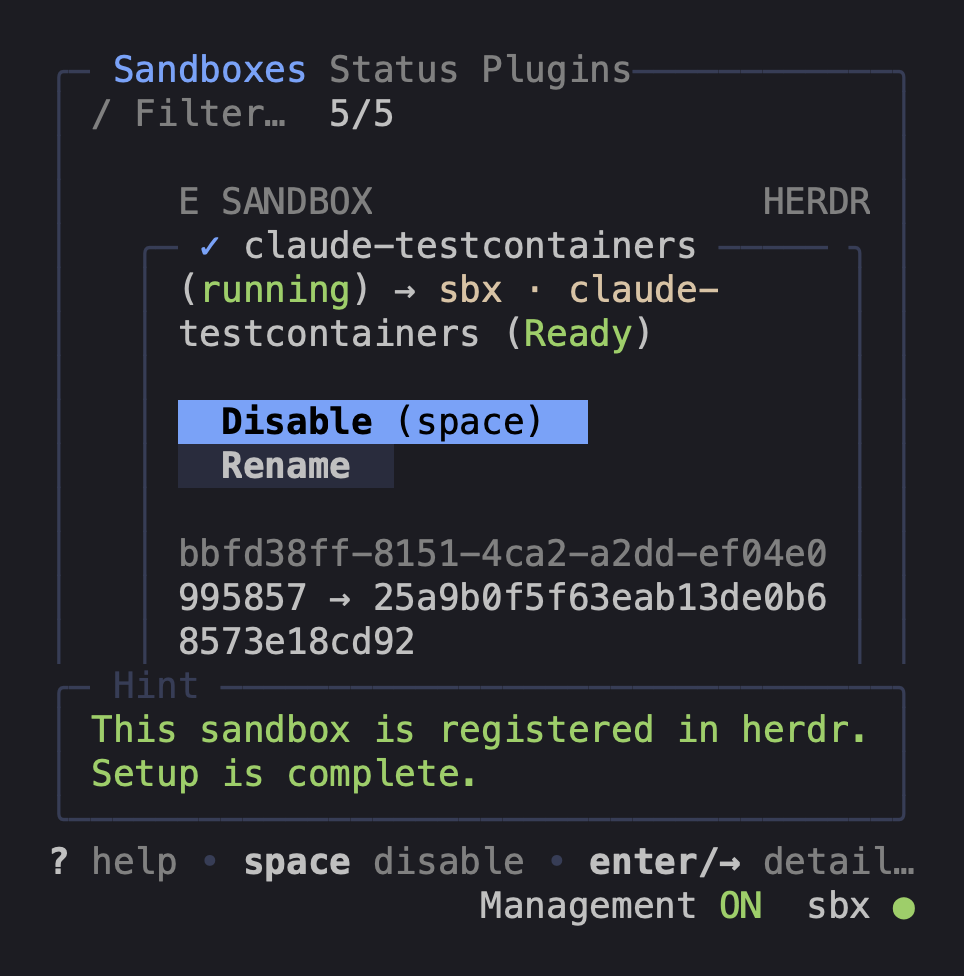
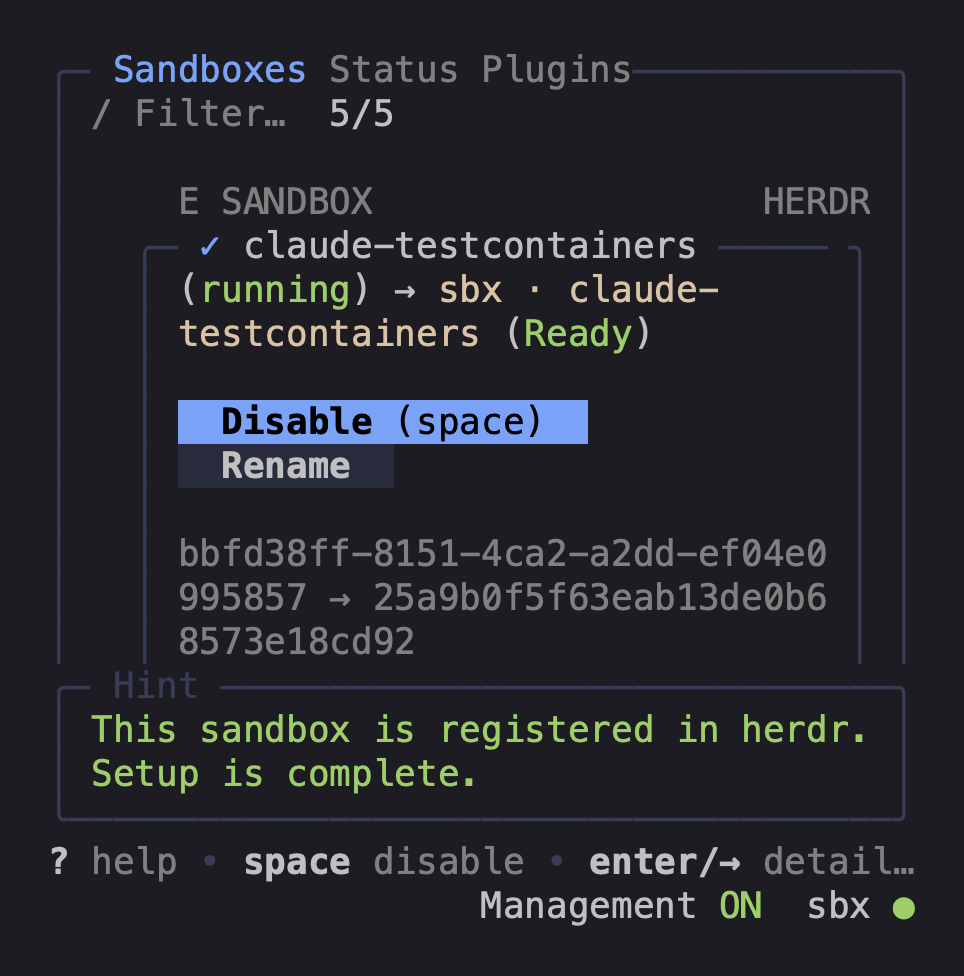
Preserve text styling across compact detail rows
Borders reset ANSI style between wrapped rows; Lip Gloss now restores each row.

Changed region(s): [[0.1867, 0.584, 0.8714, 0.6762], [0.2801, 0.3381, 0.4979, 0.3689], [0.1867, 0.3381, 0.249, 0.3689]]

diff --git a/internal/panel/details_render_test.go b/internal/panel/details_render_test.go
@@ -1,9 +1,12 @@
 package panel
 
 import (
+	"io"
+	"reflect"
 	"strings"
 	"testing"
 
+	"charm.land/lipgloss/v2"
 	"github.com/charmbracelet/x/ansi"
 	"github.com/lanwen/herdr-sbx/internal/guestplugins"
 	"github.com/lanwen/herdr-sbx/internal/store"
@@ -136,6 +139,40 @@ func TestDetailFocusMutesPrimaryAndShowsRenameSaveState(t *testing.T) {
 		}
 		if got := m.renderedInput(40); got != "New█ label" {
 			t.Fatalf("block cursor at wrong position: %q", got)
+		}
+	}
+}
+
+func TestCompactDetailsPreserveWrappedLabelAndIdentityStyles(t *testing.T) {
+	unsetNoColor(t)
+	m := modelFixture(t)
+	m.width = 40
+	row := m.rows[0]
+	row.Sandbox.ID = "bbfd38ff-8151-4ca2-a2dd-ef04e0995857"
+	row.ProfileID = "25a9b0f5f63eab13de0b68573e18cd92"
+	row.Label = "sbx · claude-testcontainers"
+	// Inspect the terminal pen at distinctive continuation fragments after the
+	// real card has inserted each row's borders and padding.
+	for fragment, want := range map[string]string{"testcontainers": colorSand, "5857": colorMuted, "cd92": colorMuted} {
+		found := false
+		for _, line := range m.sandboxDetails(row) {
+			if index := strings.Index(line.text, fragment); index >= 0 {
+				pen := lipgloss.NewWrapWriter(io.Discard)
+				_, _ = pen.Write([]byte(line.text[:index]))
+				got := pen.Style().Fg
+				_ = pen.Close()
+				expected := lipgloss.NewWrapWriter(io.Discard)
+				_, _ = expected.Write([]byte(want))
+				color := expected.Style().Fg
+				_ = expected.Close()
+				if !reflect.DeepEqual(got, color) {
+					t.Fatalf("%q continuation lost style: got=%v want=%v line=%q", fragment, got, color, line.text)
+				}
+				found = true
+			}
+		}
+		if !found {
+			t.Fatalf("fixture continuation %q not rendered", fragment)
 		}
 	}
 }

diff --git a/internal/panel/view.go b/internal/panel/view.go
@@ -8,6 +8,7 @@ import (
 	"unicode/utf8"
 
 	tea "charm.land/bubbletea/v2"
+	"charm.land/lipgloss/v2"
 	"github.com/charmbracelet/x/ansi"
 	"github.com/lanwen/herdr-sbx/internal/precheck"
 	"github.com/lanwen/herdr-sbx/internal/store"
@@ -889,6 +890,16 @@ func (m *model) diagnosticScope(scope, name string) string {
 	return safeText(scope)
 }
 
+// styledHardwrap makes each physical row restore its own style before borders
+// or padding can reset the terminal pen between continuation rows.
+func styledHardwrap(text string, width int) string {
+	var result strings.Builder
+	writer := lipgloss.NewWrapWriter(&result)
+	_, _ = writer.Write([]byte(ansi.Hardwrap(text, max(1, width), true)))
+	_ = writer.Close()
+	return result.String()
+}
+
 // fitLines keeps text and control bounds in the same layout at narrow widths.
 func fitLines(lines []line, width int) []line {
 	var result []line
@@ -897,7 +908,7 @@ func fitLines(lines []line, width int) []line {
 			for _, h := range l.hits {
 				text := ansi.Cut(l.text, h.x, h.x+h.w)
 				h.x = 0
-				for _, part := range strings.Split(ansi.Hardwrap(text, max(1, width), true), "\n") {
+				for _, part := range strings.Split(styledHardwrap(text, width), "\n") {
 					h.w = ansi.StringWidth(part)
 					result = append(result, line{text: part, hits: []hit{h}})
 				}
@@ -905,7 +916,7 @@ func fitLines(lines []line, width int) []line {
 			continue
 		}
 		if len(l.hits) == 0 {
-			for _, text := range strings.Split(ansi.Hardwrap(l.text, max(1, width), true), "\n") {
+			for _, text := range strings.Split(styledHardwrap(l.text, width), "\n") {
 				result = append(result, textLine(text))
 			}
 		} else {

diff --git a/internal/panel/details.go b/internal/panel/details.go
@@ -5,6 +5,7 @@ import (
 	"strings"
 	"time"
 
+	"charm.land/lipgloss/v2"
 	"github.com/charmbracelet/x/ansi"
 	"github.com/lanwen/herdr-sbx/internal/registration"
 	"github.com/lanwen/herdr-sbx/internal/store"
@@ -52,7 +53,7 @@ func (m *model) sandboxDetails(r registration.SandboxRow) []line {
 		observedWidth += 2
 	}
 	titleWidth := max(1, width-indent-ansi.StringWidth(badge)-observedWidth-6)
-	summary := strings.Split(ansi.Wrap(title, titleWidth, ""), "\n")
+	summary := strings.Split(lipgloss.Wrap(title, titleWidth, ""), "\n")
 	title = summary[0]
 	var lines []line
 	for _, continuation := range summary[1:] {

diff --git a/docs/tui-spec.md b/docs/tui-spec.md
@@ -198,6 +198,7 @@ Contextual help shows the actual Space action, `enable` or `disable`, rather tha
 Tab and Shift+Tab switch tabs; arrows never do.
 Show operation progress, status details, and relevant recovery actions for that sandbox.
 At narrow widths, wrap the colored title into the card body above its actions when needed.
+Wrapped labels and IDs retain their color and typeface styling on every continuation line.
 Keep the primary action and internal controls reachable, and retain omitted version context in Hint.
 Place Details action confirmations in the Hint section. The Hint names the action and shows its confirm and cancel choices. During an active action, show an animated spinner and the action name in Hint instead of a text phase such as Waiting, Pending, or Executing. Show its result in Hint; keep coded failures in diagnostics.
 When any Details action has focus, Hint explains that action instead of the general sandbox status.

diff --git a/docs/reference.md b/docs/reference.md
@@ -125,6 +125,7 @@ Its colored title shows the sandbox name with runtime, then the herdr label with
 The known herdr version occupies the top-right border.
 Actions appear directly below the title with a blank line before and after.
 The next line shows muted `sandbox ID → herdr ID`, followed by plugin controls.
+At narrow widths, wrapped labels and IDs retain their styling on every continuation line.
 Disable preserves the label and entry while disabling its native connection.
 Remove from herdr becomes available only after native disable is confirmed and preserves the durable Disabled choice.
 Rename edits the label inline for any uniquely associated entry, regardless of who created it.
